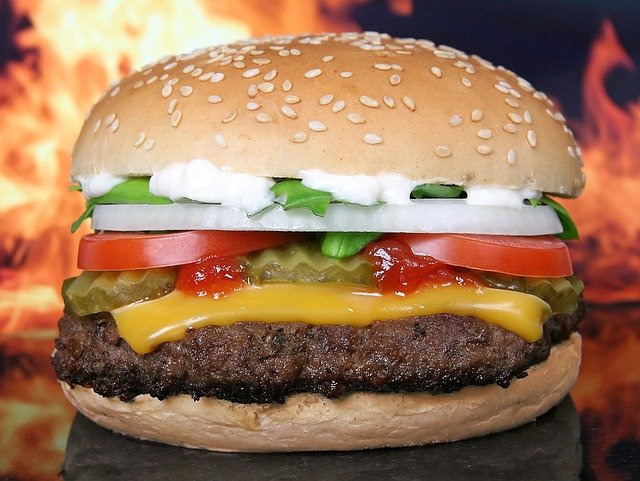
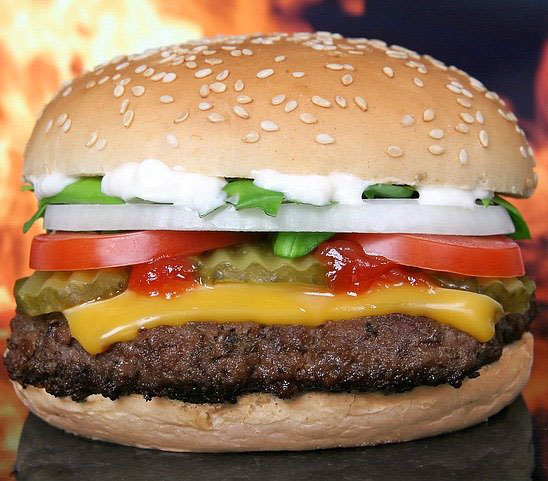
intial-updat

diff --git a/index.html b/index.html
@@ -63,7 +63,7 @@
               </div>
             </div>
             <div class="plat-imag">
-              <img class="qua-img" src="/photo/main.png" alt="">
+              <img class="qua-img" src="/photo/main.jpg" alt="">
             </div>
           </div>
         </div>
